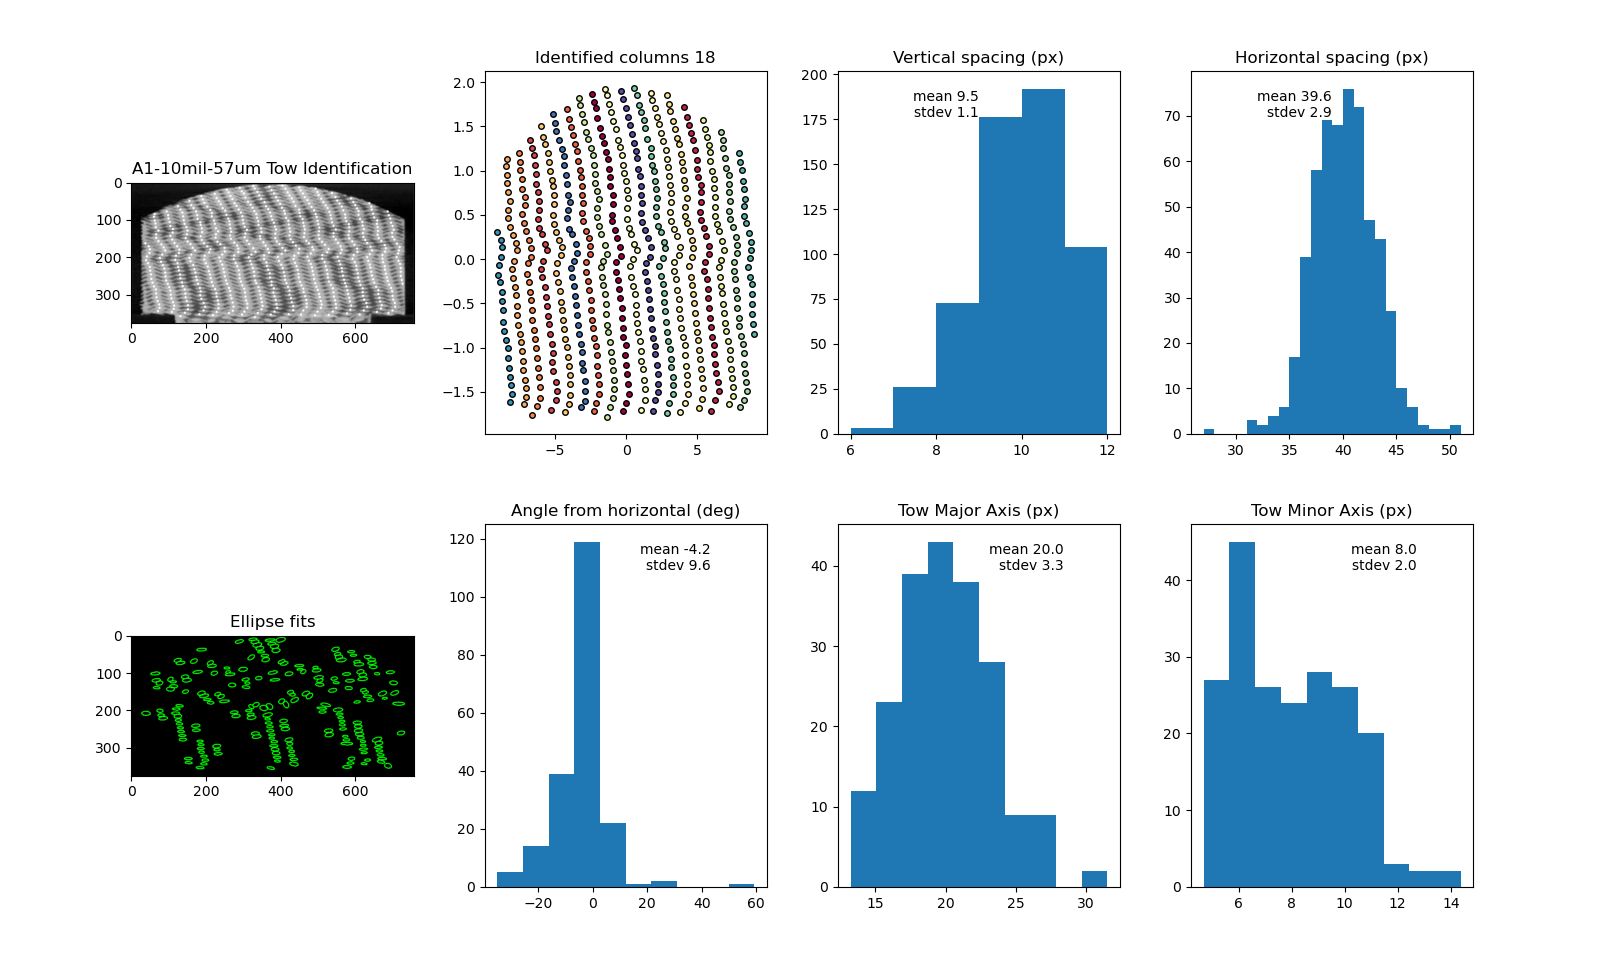
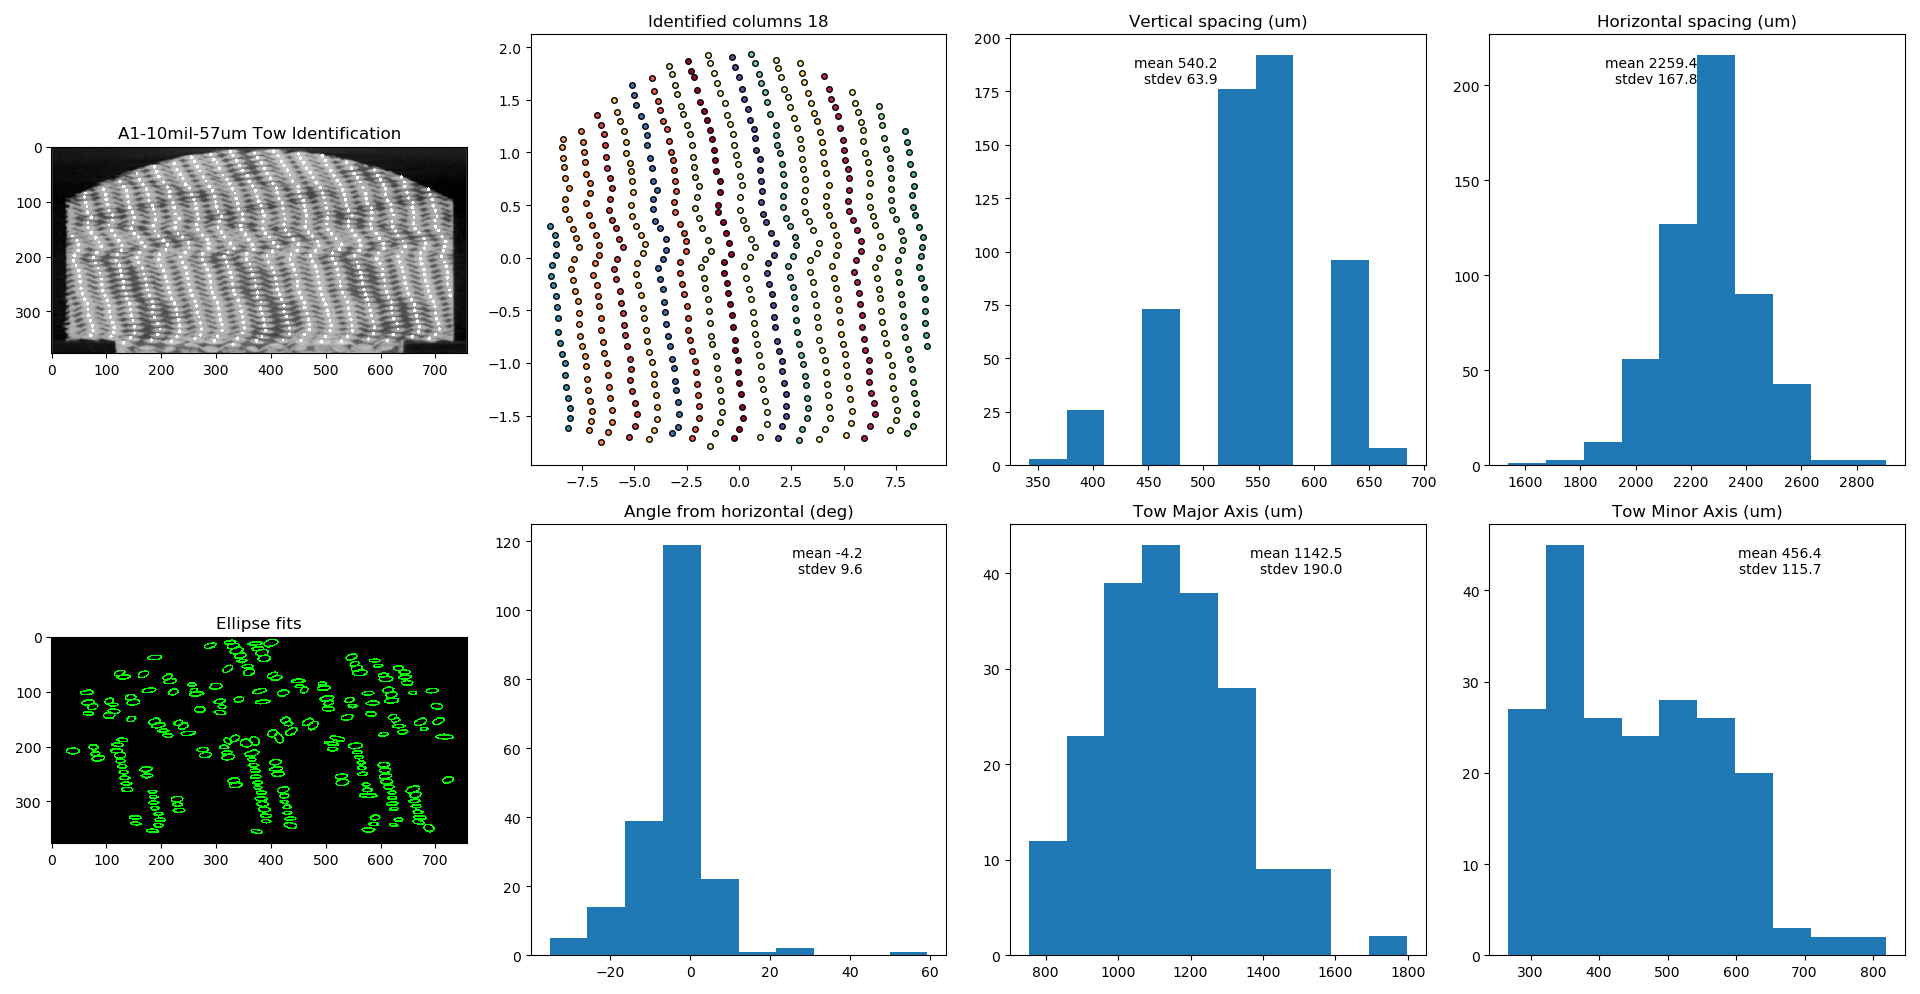
added image resolution to layer counting

diff --git a/layers/layer_stats.py b/layers/layer_stats.py
@@ -9,6 +9,7 @@ from template_method import findBlobs
 from gettemps import GetTemplates
 
 folder = "./"
+
 prefix = "A1-10mil-57um"
 r1,r2 = 30,406
 minDist = 6
@@ -16,6 +17,7 @@ eps=0.35
 minArea=50
 maxArea=150
 threshold=140
+resolution = 57
 
 ##prefix = "ILPreTest-40um-mid"
 ##r1,r2 = 61,240
@@ -24,6 +26,7 @@ threshold=140
 ##minArea=150
 ##maxArea=500
 ##threshold=90
+##resolution = 40
 
 ##prefix = "RLPreTest-40um-mid"
 ##r1,r2 = 162,305
@@ -32,6 +35,7 @@ threshold=140
 ##minArea=90
 ##maxArea=160
 ##threshold=90
+##resolution = 40
 
 fnames = folder + prefix + ".JPG"  # default
 paths = glob(fnames)
@@ -99,12 +103,12 @@ ret,fitImg = gt.getTowDimensions(plot=True,minArea=minArea,maxArea=maxArea,
                                  threshold=threshold)
 plt.title("Ellipse fits")
 
-minoraxis,majoraxis = ret[:,0],ret[:,1]
+minoraxis,majoraxis = ret[:,0]*resolution,ret[:,1]*resolution
 angle = ret[:,2]-90
 ax1 = plt.subplot(246)
 plt.hist(angle)
 print("ellipse angle (deg): ",np.mean(angle))
-print("ellipse angle stdev (px): ",np.std(angle))
+print("ellipse angle stdev (deg): ",np.std(angle))
 ax1.annotate("mean %.1f\nstdev %.1f"%(np.mean(angle),np.std(angle)),
             xy=(.2, .1),  xycoords='axes fraction',
             xytext=(0.8, 0.95), textcoords='axes fraction',
@@ -113,24 +117,24 @@ ax1.annotate("mean %.1f\nstdev %.1f"%(np.mean(angle),np.std(angle)),
 plt.title("Angle from horizontal (deg)")
 ax2 = plt.subplot(247)
 plt.hist(majoraxis)
-print("Major axis mean (px): ",np.mean(majoraxis))
-print("Major axis stdev (px): ",np.std(majoraxis))
+print("Major axis mean (um): ",np.mean(majoraxis))
+print("Major axis stdev (um): ",np.std(majoraxis))
 ax2.annotate("mean %.1f\nstdev %.1f"%(np.mean(majoraxis),np.std(majoraxis)),
             xy=(.2, .1),  xycoords='axes fraction',
             xytext=(0.8, 0.95), textcoords='axes fraction',
             horizontalalignment='right', verticalalignment='top',
             )
-plt.title("Tow Major Axis (px)")
+plt.title("Tow Major Axis (um)")
 ax3 = plt.subplot(248)
 plt.hist(minoraxis)
-print("Minor axis mean (px): ",np.mean(minoraxis))
-print("Minor axis stdev (px): ",np.std(minoraxis))
+print("Minor axis mean (um): ",np.mean(minoraxis))
+print("Minor axis stdev (um): ",np.std(minoraxis))
 ax3.annotate("mean %.1f\nstdev %.1f"%(np.mean(minoraxis),np.std(minoraxis)),
             xy=(.2, .1),  xycoords='axes fraction',
             xytext=(0.8, 0.95), textcoords='axes fraction',
             horizontalalignment='right', verticalalignment='top',
             )
-plt.title("Tow Minor Axis (px)")
+plt.title("Tow Minor Axis (um)")
 
 # ##################################################################
 # Compute DBSCAN, get labels
@@ -151,12 +155,12 @@ for cluster in range(0,n):
     c = final[cluster]
     for i in range(1,len(c)):
         vdist.append(abs(c[i][1]-c[i-1][1]))
-vdist = np.array(vdist)
-print("Vdist mean (px): ",np.mean(vdist))
-print("Vdist stdev (px): ",np.std(vdist))
+vdist = np.array(vdist)*resolution
+print("Vdist mean (um): ",np.mean(vdist))
+print("Vdist stdev (um): ",np.std(vdist))
 ax6 = plt.subplot(243)
-plt.hist(vdist,bins=range(min(vdist),max(vdist)+1 ))
-plt.title("Vertical spacing (px)")
+plt.hist(vdist)
+plt.title("Vertical spacing (um)")
 ax6.annotate("mean %.1f\nstdev %.1f"%(np.mean(vdist),np.std(vdist)),
             xy=(.2, .1),  xycoords='axes fraction',
             xytext=(0.5, 0.95), textcoords='axes fraction',
@@ -179,12 +183,12 @@ for cluster in range(1,n):
         ind = np.argmin(vdiff)
         hdist.append(abs(sc[i][0]-bc[ind][0]))
         
-hdist = np.array(hdist)
-print("Hdist mean (px): ",np.mean(hdist))
-print("Hdist stdev (px): ",np.std(hdist))
+hdist = np.array(hdist)*resolution
+print("Hdist mean (um): ",np.mean(hdist))
+print("Hdist stdev (um): ",np.std(hdist))
 ax7 = plt.subplot(244)
-plt.hist(hdist,bins=range(min(hdist),max(hdist)+1 ))
-plt.title("Horizontal spacing (px)")
+plt.hist(hdist)
+plt.title("Horizontal spacing (um)")
 ax7.annotate("mean %.1f\nstdev %.1f"%(np.mean(hdist),np.std(hdist)),
             xy=(.2, .1),  xycoords='axes fraction',
             xytext=(0.5, 0.95), textcoords='axes fraction',
